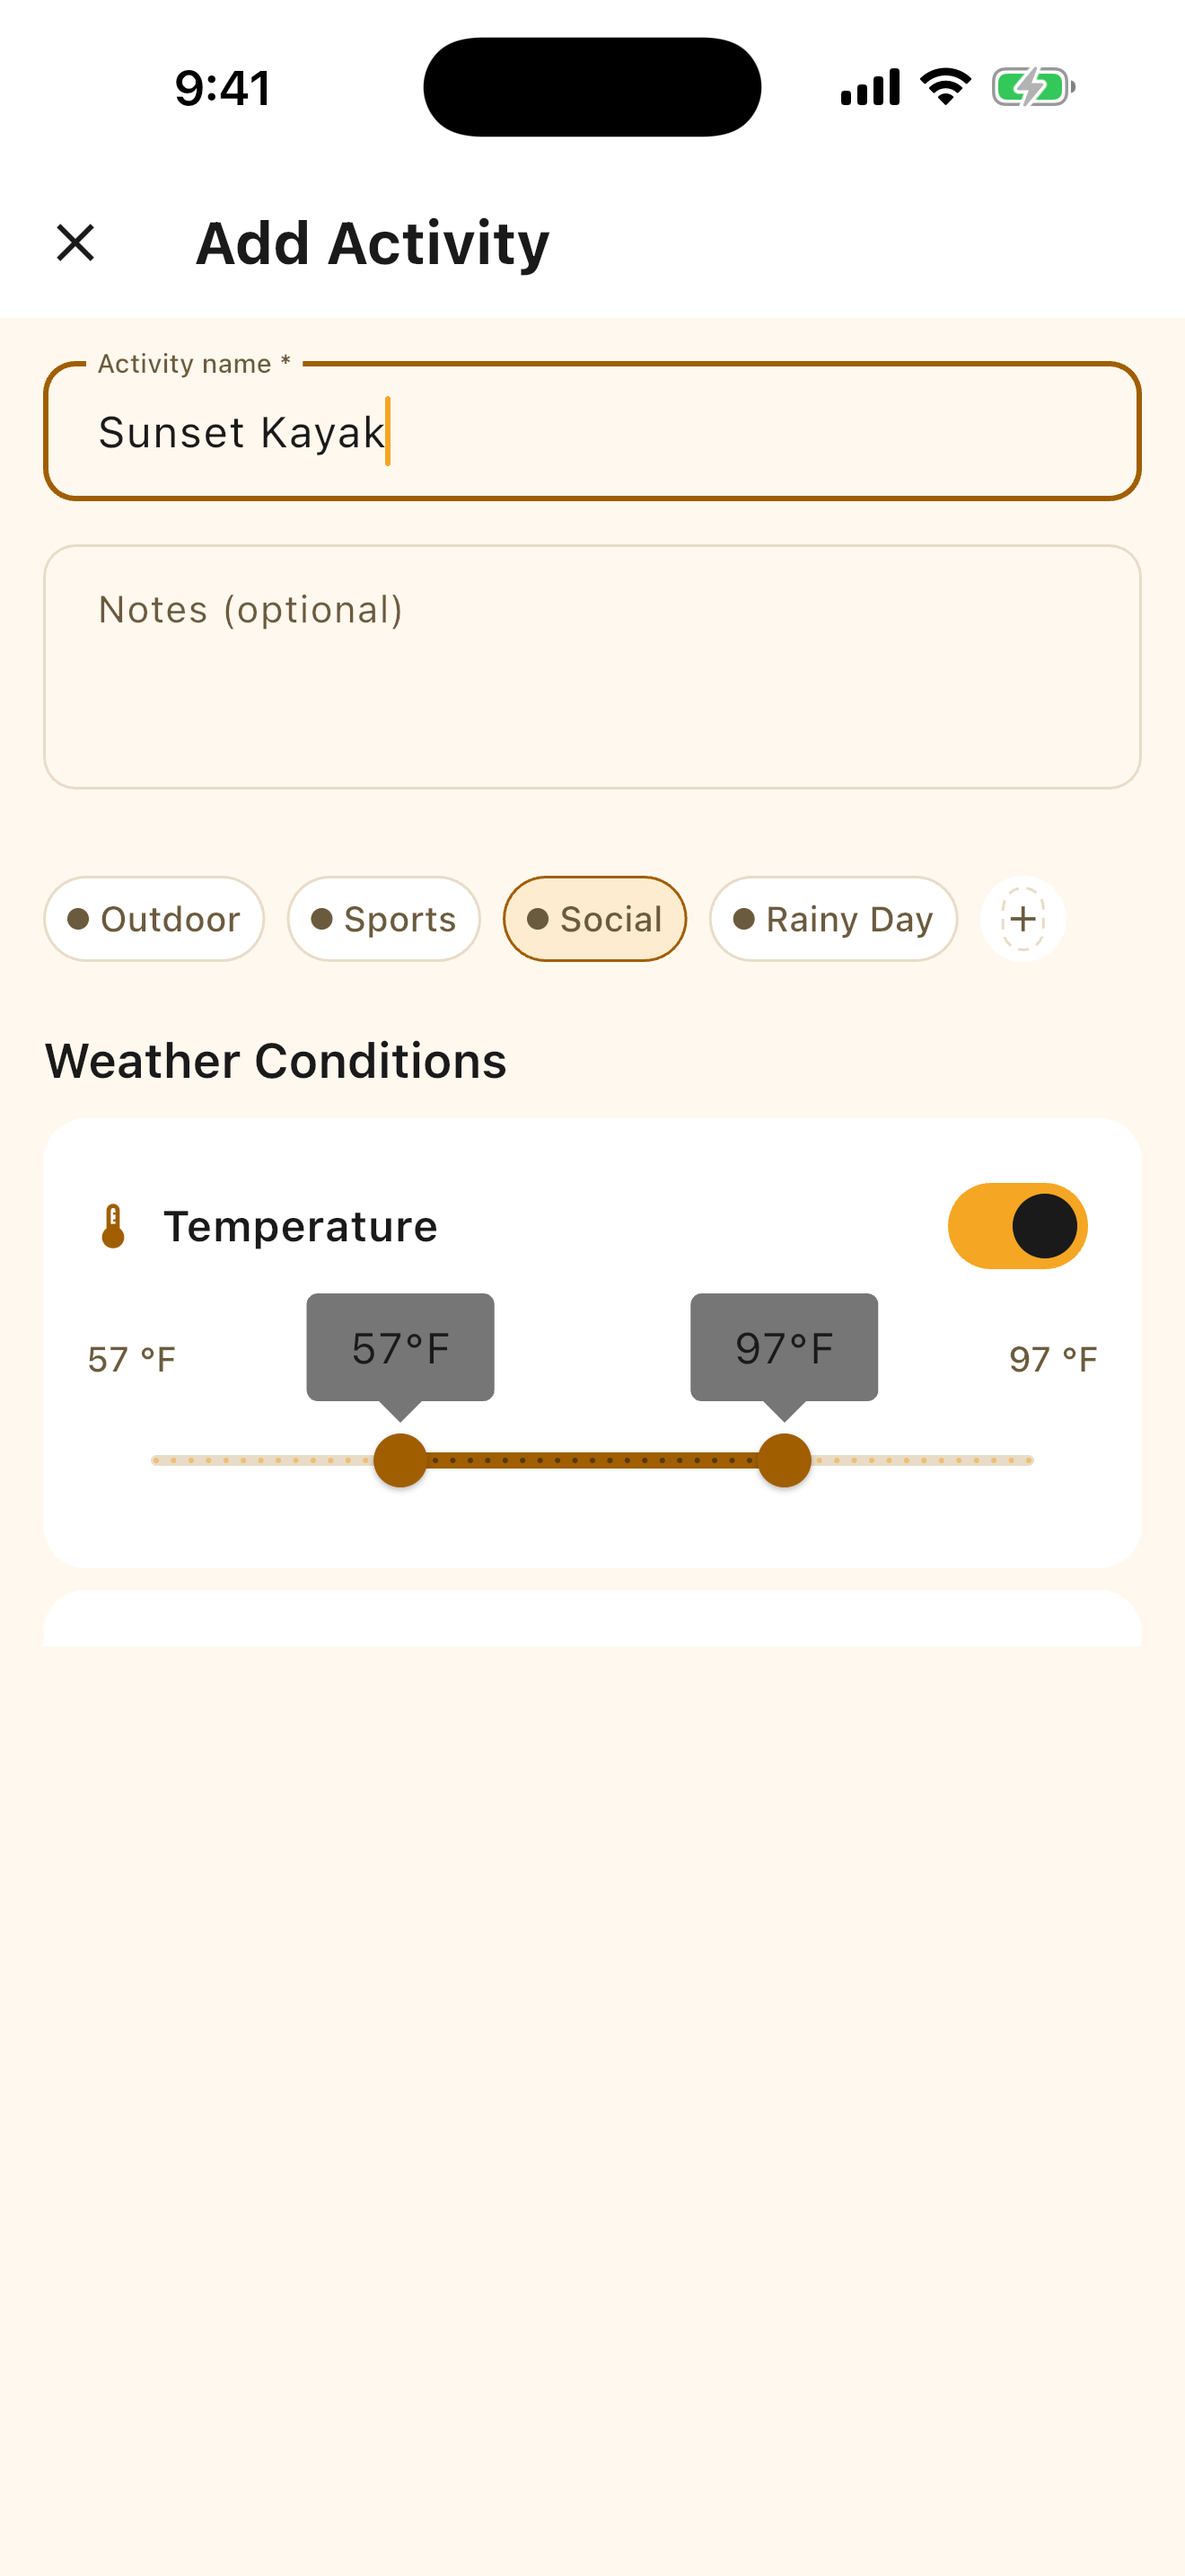
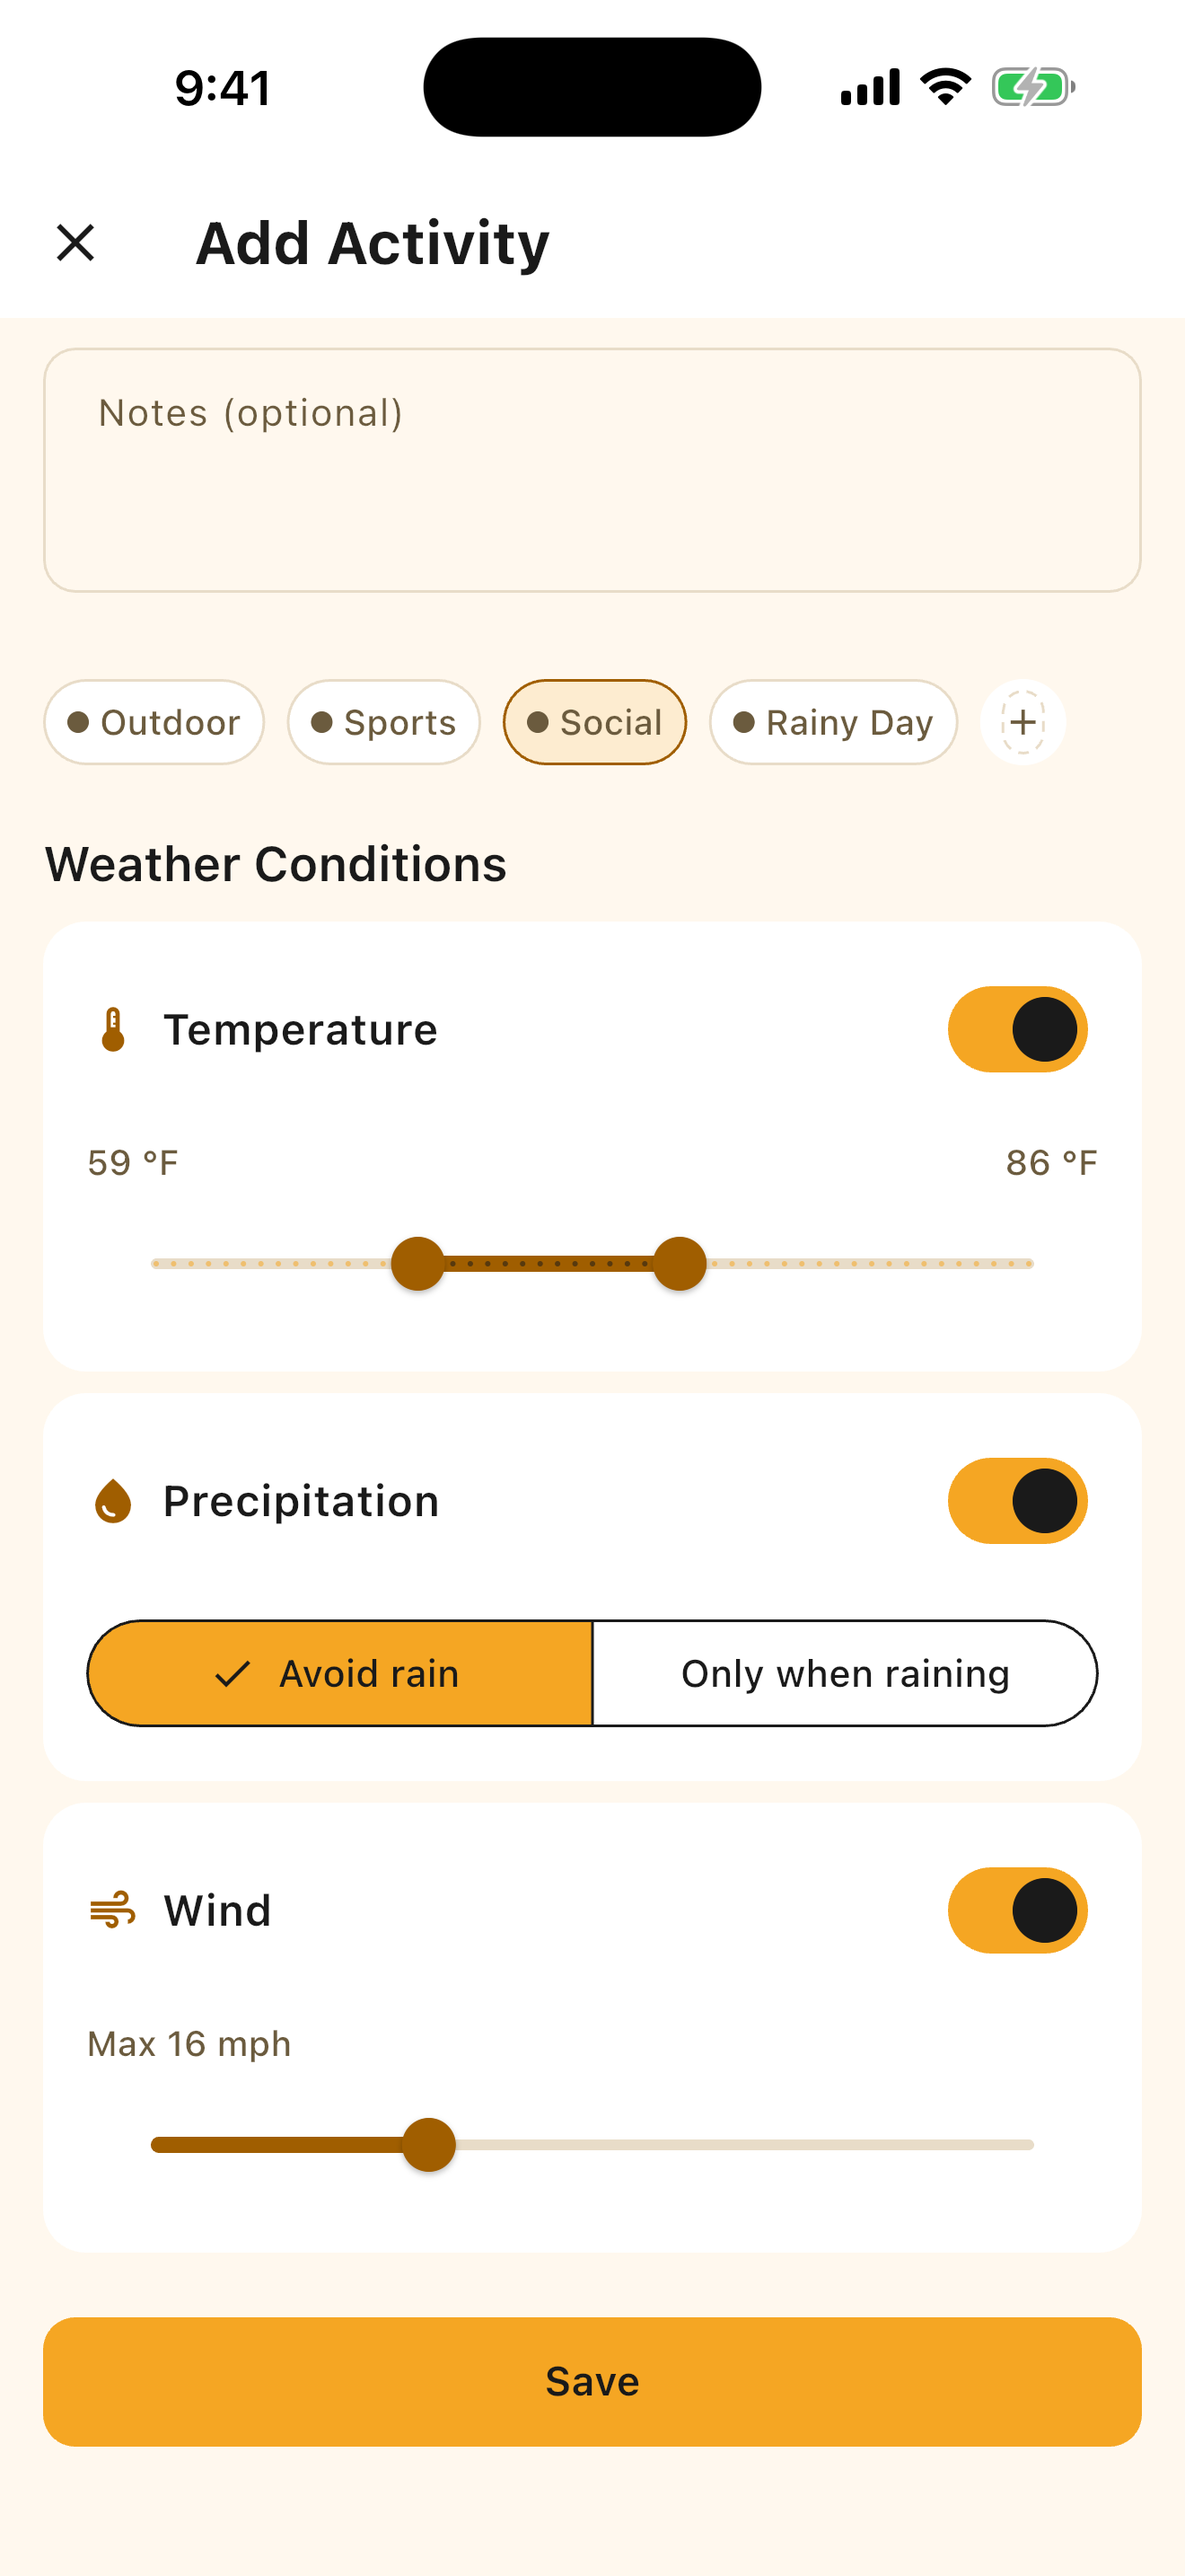
Fix shots 04, 05, 05b: full form with Save, organic heat map, deeper scroll
Shot 04: wait for AnimatedCrossFade (400ms per switch), unfocus text
field, scroll to show Temperature + Precipitation + Save button.

Shot 05: retune outcome pattern to 67% rate, streak 5, best 9 —
no blank rows, scattered not-matched days look organic.

Shot 05b: scroll -900 to reveal "When to tell you" content
(Morning of / The night before / Further ahead).

diff --git a/integration_test/screenshot_test.dart b/integration_test/screenshot_test.dart
@@ -234,6 +234,10 @@ final _shotConfigs = <String, _ShotConfig>{
       );
       await tester.pump();
 
+      // Unfocus the text field so cursor is hidden.
+      FocusManager.instance.primaryFocus?.unfocus();
+      await tester.pump();
+
       // Tap the "Social" category chip.
       final social = find.text('Social');
       if (social.evaluate().isNotEmpty) {
@@ -241,32 +245,23 @@ final _shotConfigs = <String, _ShotConfig>{
         await tester.pump();
       }
 
-      // Turn on all three condition switches.
+      // Turn on all three condition switches one at a
+      // time, waiting for AnimatedCrossFade (300ms) to
+      // finish before the next tap.
       final switches = find.byType(Switch);
       for (var i = 0; i < switches.evaluate().length; i++) {
         await tester.tap(switches.at(i));
-        await tester.pump(
-          const Duration(milliseconds: 200),
-        );
+        await tester.pump(const Duration(milliseconds: 400));
       }
 
-      // Drag temperature range slider thumbs.
-      final sliders = find.byType(RangeSlider);
-      if (sliders.evaluate().isNotEmpty) {
-        final sliderBox = tester.getRect(sliders.first);
-        // Drag left thumb right (~60F position).
-        await tester.tapAt(Offset(
-          sliderBox.left + sliderBox.width * 0.3,
-          sliderBox.center.dy,
-        ));
-        await tester.pump();
-        // Drag right thumb left (~82F position).
-        await tester.tapAt(Offset(
-          sliderBox.left + sliderBox.width * 0.7,
-          sliderBox.center.dy,
-        ));
-        await tester.pump();
-      }
+      // Let all expand animations fully settle.
+      await tester.pump(const Duration(seconds: 1));
+
+      // Scroll down so Temperature, Precipitation,
+      // and the Save button are all visible.
+      final scrollable = find.byType(Scrollable).first;
+      await tester.drag(scrollable, const Offset(0, -420));
+      await tester.pump(const Duration(milliseconds: 300));
     },
   ),
   '05': _ShotConfig(
@@ -290,11 +285,11 @@ final _shotConfigs = <String, _ShotConfig>{
       await tester.tap(firstActivity);
       await tester.pump(const Duration(seconds: 1));
       // Scroll past the heat map to show condition
-      // profile and notification timing.
+      // profile and "When to tell you" content.
       final scrollable = find.byType(Scrollable).first;
       await tester.drag(
         scrollable,
-        const Offset(0, -600),
+        const Offset(0, -900),
       );
     },
   ),

diff --git a/integration_test/demo_data.dart b/integration_test/demo_data.dart
@@ -408,11 +408,23 @@ const demoLocation = UserLocation(
 
 /// 10 weeks of outcome history for the hero activity.
 ///
-/// Mix: ~25 done, ~10 skipped, ~15 not-matched, rest expired.
-/// Last 5 days: consecutive done (current streak of 5).
+/// Targets: ~67% rate, 38 times out, best streak 9, current
+/// streak 5, scattered not-matched across all heat-map rows.
 List<ActivityDayOutcome> buildMorningRunOutcomes() {
   final today = DateTime(2026, 9, 21);
   final outcomes = <ActivityDayOutcome>[];
+
+  // Hand-tuned day-by-day pattern (i = days ago, 69..0).
+  // d = done, s = skipped, x = not-matched, e = expired.
+  // Designed so no heat-map row is blank, the grid looks
+  // organic, and stats land at ~67% / streak 5 / best 9.
+  const pattern = 'sxddsxsdds' // week 1 (oldest, i=69..60)
+      'dxsddddddd' // week 2 (i=59..50) — best streak 9
+      'ddsxsddxsd' // week 3 (i=49..40)
+      'dxdsdexdsd' // week 4 (i=39..30)
+      'xdsddxsdds' // week 5 (i=29..20)
+      'xddsxedsxd' // week 6 (i=19..10)
+      'dsdxsddddd'; // week 7 (i=9..0, current streak 5)
 
   for (var i = 69; i >= 0; i--) {
     final day = today.subtract(Duration(days: i));
@@ -421,23 +433,14 @@ List<ActivityDayOutcome> buildMorningRunOutcomes() {
         '${day.month.toString().padLeft(2, '0')}-'
         '${day.day.toString().padLeft(2, '0')}';
 
-    String? outcome;
-    bool matched = true;
-
-    if (i < 5) {
-      // Last 5 days: all done (streak).
-      outcome = 'done';
-    } else if (i % 7 == 0 || i % 7 == 6) {
-      // Weekends: not matched (weather didn't suit).
-      matched = false;
-    } else if (i % 5 == 0) {
-      // Every 5th weekday: skipped.
-      outcome = 'skipped';
-    } else if (i % 3 == 0) {
-      // Every 3rd remaining: done.
-      outcome = 'done';
-    }
-    // Rest: matched but unanswered (expired).
+    final code = pattern[69 - i];
+    final bool matched = code != 'x';
+    final String? outcome = switch (code) {
+      'd' => 'done',
+      's' => 'skipped',
+      'e' => null, // expired: matched but unanswered
+      _ => null, // x: not matched
+    };
 
     outcomes.add(ActivityDayOutcome(
       id: 'outcome-$i',
